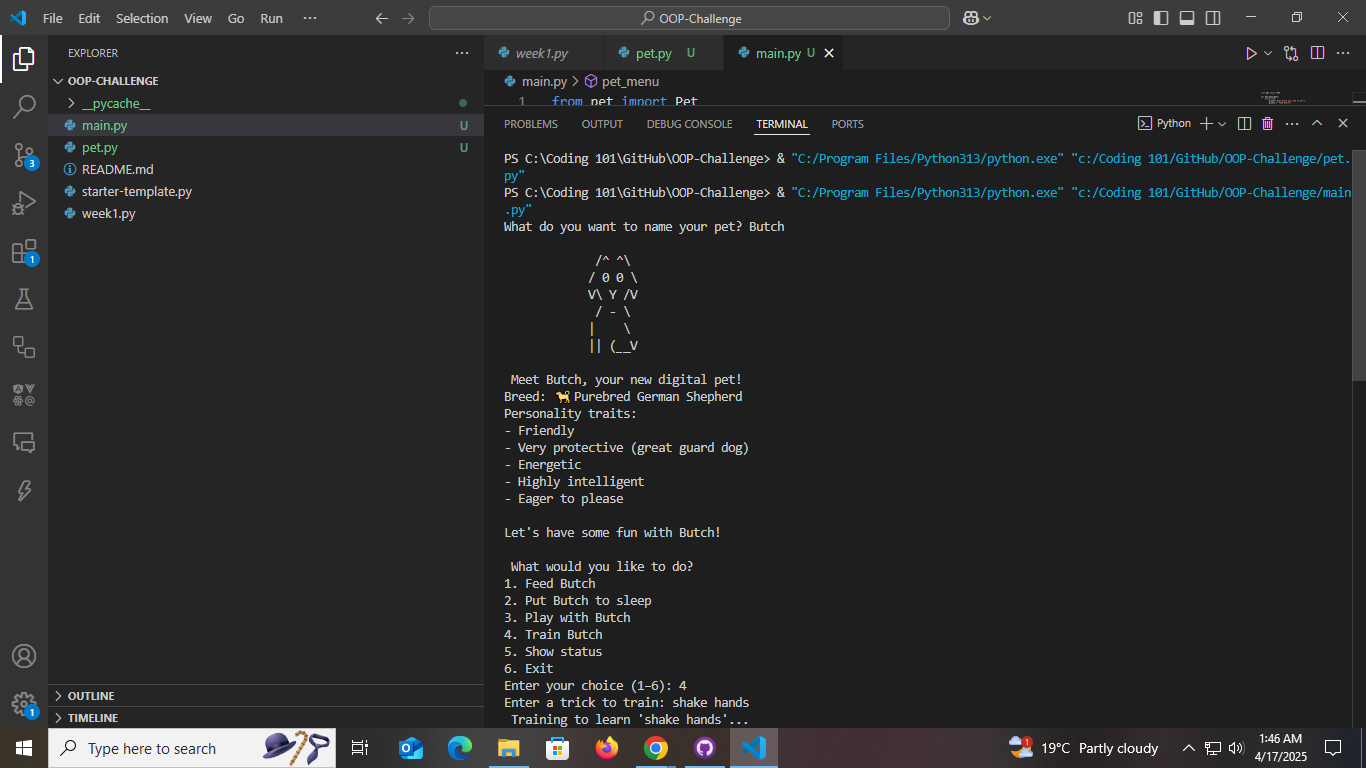
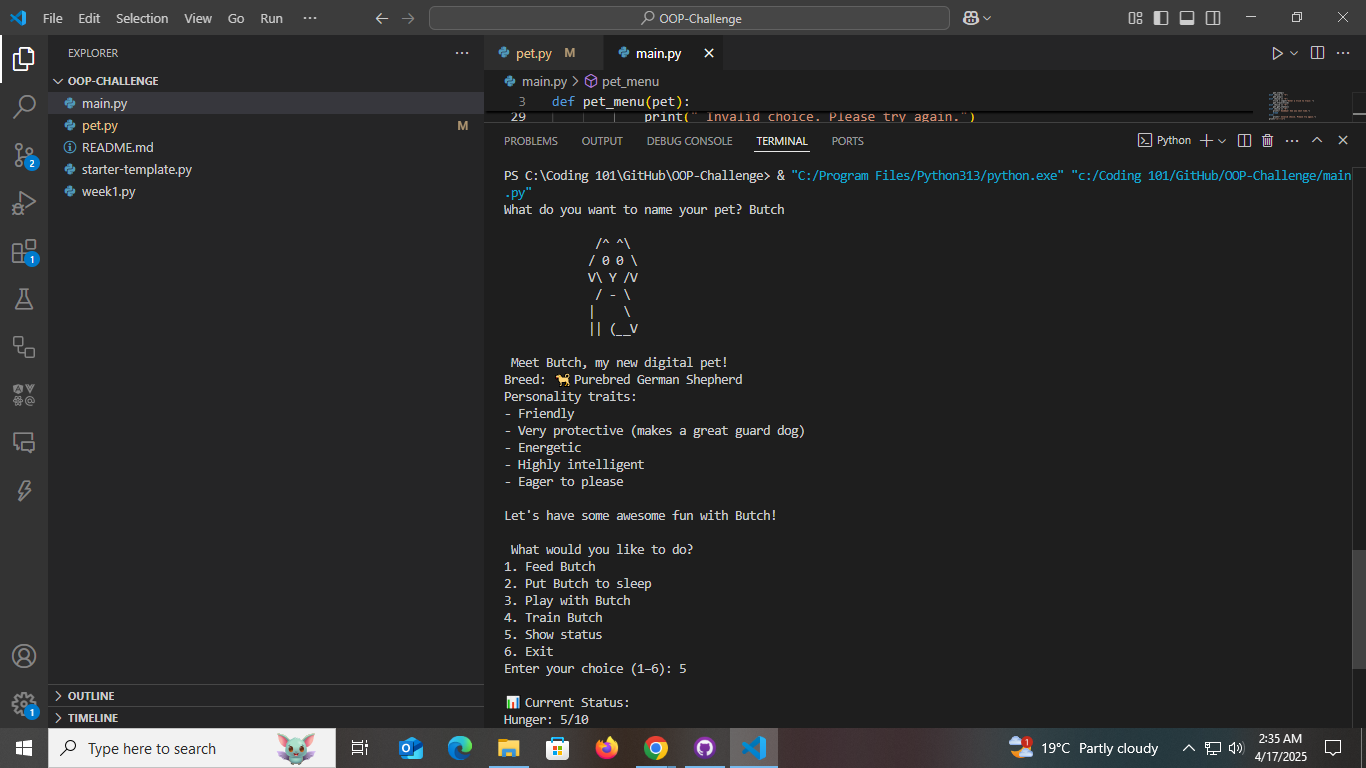
Update OOP-Challenge

diff --git a/pet.py b/pet.py
@@ -6,7 +6,7 @@ class Pet:
         self.breed = "🐕 Purebred German Shepherd"
         self.traits = [
             "Friendly",
-            "Very protective (great guard dog)",
+            "Very protective (makes a great guard dog)",
             "Energetic",
             "Highly intelligent",
             "Eager to please"
@@ -28,7 +28,7 @@ class Pet:
             || (__V
         """)
         time.sleep(1)
-        print(f" Meet {self.name}, your new digital pet!")
+        print(f" Meet {self.name}, my new digital pet!")
         time.sleep(1)
         print(f"Breed: {self.breed}")
         time.sleep(1)
@@ -36,7 +36,7 @@ class Pet:
         for trait in self.traits:
             print(f"- {trait}")
             time.sleep(0.5)
-        print("\nLet's have some fun with Butch!\n")
+        print("\nLet's have some awesome fun with Butch!\n")
         time.sleep(1)
 
     def eat(self):
